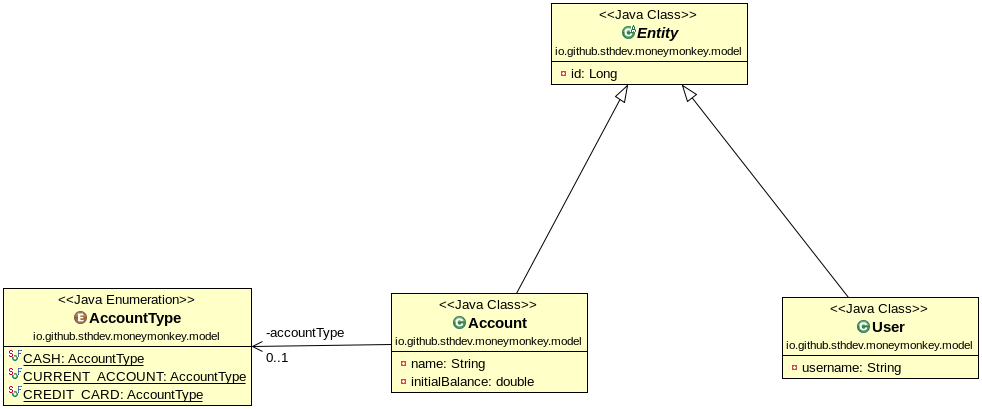
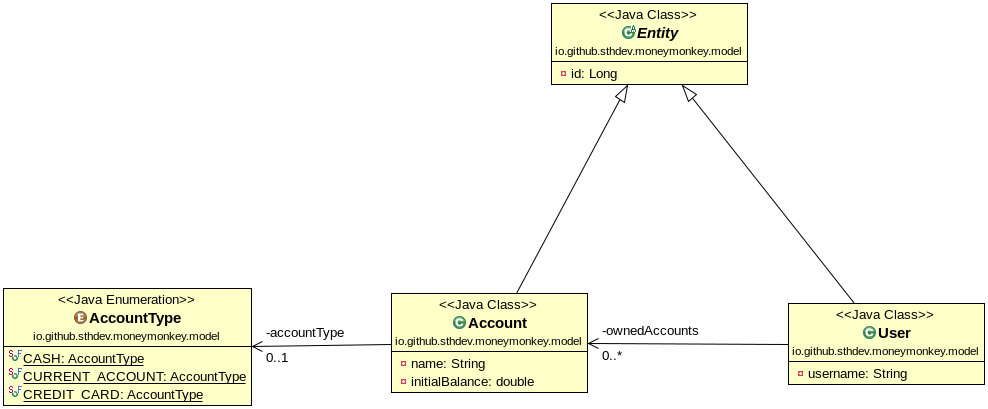
added ownedAccounts reference

diff --git a/moneymonkey-model/src/main/java/io/github/sthdev/moneymonkey/model/User.java b/moneymonkey-model/src/main/java/io/github/sthdev/moneymonkey/model/User.java
@@ -1,5 +1,7 @@
 package io.github.sthdev.moneymonkey.model;
 
+import java.util.Set;
+
 import org.neo4j.ogm.annotation.NodeEntity;
 
 import lombok.AllArgsConstructor;
@@ -17,4 +19,6 @@ import lombok.NoArgsConstructor;
 public class User extends Entity {
 
 	private String username;
+
+	private Set<Account> ownedAccounts;
 }
